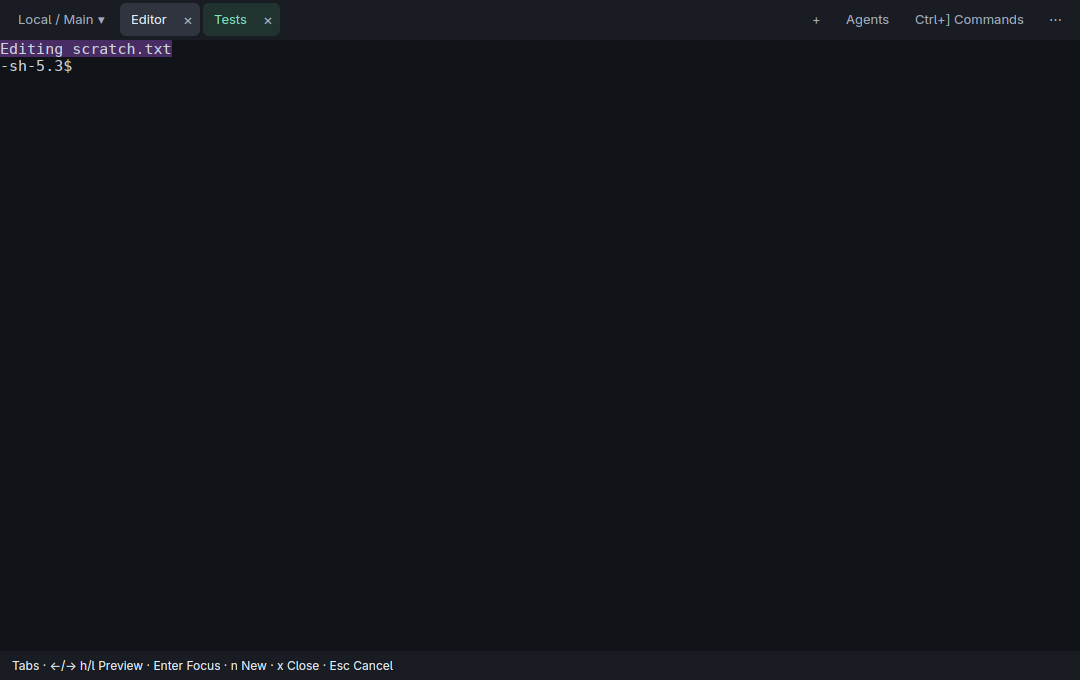
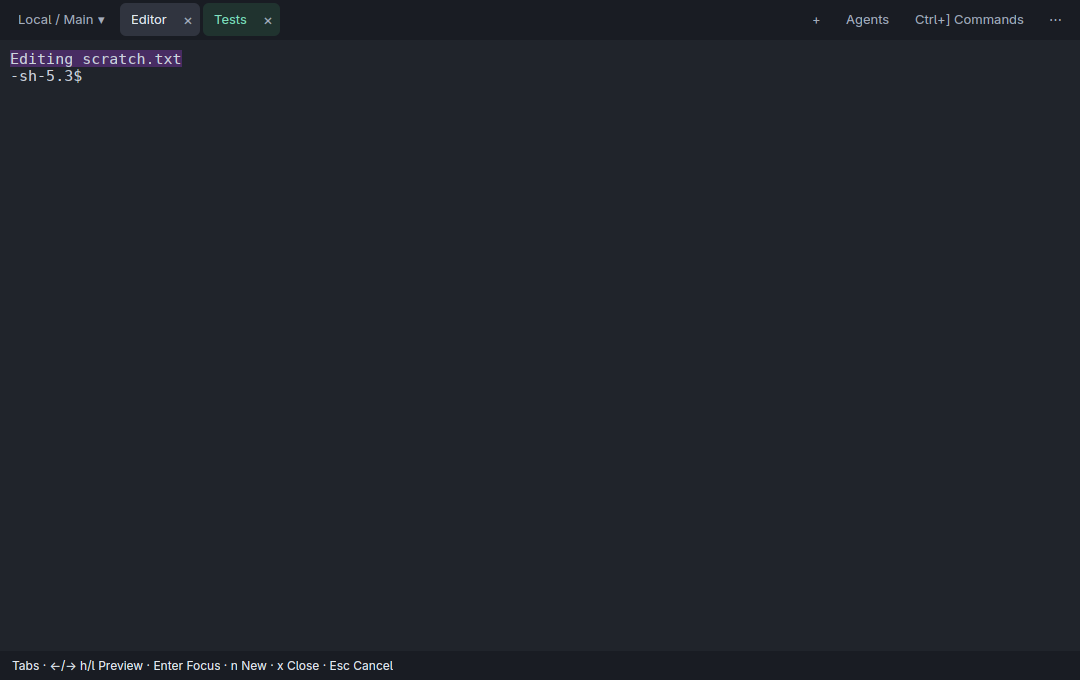
fix: align Desktop terminal preview surfaces (#410)

Changed region(s): [[0.0, 0.0618, 0.1833, 0.1235]]

diff --git a/crates/corvid-desktop/src/terminal_view.rs b/crates/corvid-desktop/src/terminal_view.rs
@@ -1,6 +1,7 @@
 use std::{
     cell::{Cell, RefCell},
     ops::Range,
+    rc::Rc,
     sync::{Arc, Weak},
     time::Instant,
 };
@@ -8,10 +9,10 @@ use std::{
 use corvid_async::oneshot;
 use corvid_protocol::ansi_screen::{Cell as ScreenCell, Screen};
 use gpui::{
-    App, Bounds, ClipboardItem, Context, FocusHandle, HitboxBehavior, InputHandler, IntoElement,
-    KeyDownEvent, Keystroke, Modifiers, MouseButton, MouseDownEvent, MouseMoveEvent, MouseUpEvent,
-    Pixels, Point, ScrollEvent, Task, UTF16Selection, WeakEntity, Window, canvas, div, prelude::*,
-    rgb,
+    App, Bounds, ClipboardItem, Context, Div, FocusHandle, HitboxBehavior, InputHandler,
+    IntoElement, KeyDownEvent, Keystroke, Modifiers, MouseButton, MouseDownEvent, MouseMoveEvent,
+    MouseUpEvent, Pixels, Point, ScrollEvent, Task, UTF16Selection, WeakEntity, Window, canvas,
+    div, prelude::*, rgb,
 };
 
 use crate::appearance::{Appearance, ui_px};
@@ -28,6 +29,7 @@ use wheel::WheelGesture;
 
 type CellPosition = (u16, u16);
 type CellRange = Range<CellPosition>;
+pub(crate) type SurfaceGeometry = (Bounds<Pixels>, Metrics);
 
 pub struct TerminalView {
     focus: FocusHandle,
@@ -35,7 +37,7 @@ pub struct TerminalView {
     pane: String,
     marked: String,
     pending_pane_click: Option<(u16, u16)>,
-    surface: Cell<Option<(Bounds<Pixels>, Metrics)>>,
+    surface: Cell<Option<SurfaceGeometry>>,
     displayed: RefCell<Option<DisplayedScreen>>,
     link_hover: RefCell<Option<LinkHover>>,
     selection: Option<Selection>,
@@ -817,7 +819,7 @@ impl Render for TerminalView {
         )
         .size_full();
 
-        div()
+        terminal_surface()
             .id("daemon-terminal")
             .track_focus(&self.focus)
             .on_key_down(cx.listener(Self::key_down))
@@ -834,13 +836,6 @@ impl Render for TerminalView {
                 MouseButton::Left,
                 cx.listener(|view, _, _, cx| view.end_selection(None, cx)),
             )
-            .size_full()
-            .flex()
-            .flex_col()
-            .min_h_0()
-            .p(ui_px(10.))
-            .overflow_hidden()
-            .bg(rgb(paint::BACKGROUND))
             .when_some(self.history.as_ref(), |this, history| {
                 this.child(
                     div()
@@ -856,28 +851,30 @@ impl Render for TerminalView {
     }
 }
 
-pub(crate) fn preview_cell(
-    bounds: Bounds<Pixels>,
-    point: Point<Pixels>,
-    window: &mut Window,
-    cx: &mut App,
-) -> CellPosition {
-    let family = cx.global::<TerminalFonts>().current().clone();
-    let font_size = cx.global::<Appearance>().terminal_size();
-    Metrics::measure(window, &family, font_size).position(bounds, point)
+fn terminal_surface() -> Div {
+    div()
+        .size_full()
+        .flex()
+        .flex_col()
+        .min_h_0()
+        .p(ui_px(10.))
+        .overflow_hidden()
+        .bg(rgb(paint::BACKGROUND))
 }
 
-pub fn preview(
+pub(crate) fn preview(
     session: Session,
     pane: String,
-    surface: std::rc::Rc<Cell<Option<Bounds<Pixels>>>>,
+    surface: Option<Rc<Cell<Option<SurfaceGeometry>>>>,
 ) -> impl IntoElement {
-    canvas(
+    let canvas = canvas(
         move |bounds, window, cx| {
-            surface.set(Some(bounds));
             let family = cx.global::<TerminalFonts>().current().clone();
             let font_size = cx.global::<Appearance>().terminal_size();
             let metrics = Metrics::measure(window, &family, font_size);
+            if let Some(surface) = &surface {
+                surface.set(Some((bounds, metrics)));
+            }
             let grid = metrics.grid(bounds);
             let frame = session
                 .preview(&pane, |screen| Frame::new(screen, grid))
@@ -888,7 +885,8 @@ pub fn preview(
             frame.paint(bounds, metrics, None, &family, window, cx);
         },
     )
-    .size_full()
+    .size_full();
+    terminal_surface().child(div().flex_1().min_h_0().child(canvas))
 }
 
 // X11 can retain the platform input handler while closing its window asynchronously.

diff --git a/tests/ui/linux/test_desktop.py b/tests/ui/linux/test_desktop.py
@@ -282,9 +282,14 @@ with (tempfile.TemporaryDirectory(prefix=".corvid-desktop-smoke-", dir=Path.home
                     ["scrot", "--overwrite", "--format", "ppm", "--window", window, str(screenshot)],
                     check=True, timeout=5,
                 )
-                pixels = screenshot.read_bytes().partition(b"\n255\n")[2]
-                if all(bytes(color) * 8 in pixels for color in colors):
-                    return
+                header, _, pixels = screenshot.read_bytes().partition(b"\n255\n")
+                offsets = [pixels.find(bytes(color) * 8) for color in colors]
+                if all(offset >= 0 for offset in offsets):
+                    width, height = map(int, header.splitlines()[-1].split())
+                    positions = tuple(divmod(offset // 3, width) for offset in offsets)
+                    # Sample the blank area well below the shell prompt.
+                    blank = 3 * (height * 3 // 4 * width + width // 2)
+                    return positions, tuple(pixels[blank:blank + 3])
                 time.sleep(0.05)
             raise AssertionError(f"Desktop did not render terminal backgrounds {colors}")
 
@@ -559,6 +564,9 @@ with (tempfile.TemporaryDirectory(prefix=".corvid-desktop-smoke-", dir=Path.home
         tests_color = (20, 82, 102)
         if args.build or tab_screenshot:
             prepare_preview("Editor", "Editing scratch.txt", editor_color)
+        if args.build:
+            editor_focused = wait_for_terminal_colors(editor_color)
+            assert editor_focused[1] == (32, 36, 43), editor_focused
         new_tab(window)
         second_terminal = wait_for_terminal(previous=first_terminal)
         second_tab_marker = root / "second-tab"
@@ -579,12 +587,17 @@ with (tempfile.TemporaryDirectory(prefix=".corvid-desktop-smoke-", dir=Path.home
             assert writers() == focused, "Cancelling tab preview changed the input route"
         key(window, "ctrl+bracketright", "t", "Left")
         if args.build:
-            wait_for_terminal_colors(editor_color)
+            editor_preview = wait_for_terminal_colors(editor_color)
+            assert editor_preview == editor_focused, (editor_preview, editor_focused)
             assert writers() == focused, "Arrow key preview changed the input route"
         if tab_screenshot:
+            wait_for_terminal_colors(editor_color)
             subprocess.run(["scrot", "--overwrite", "--focused", tab_screenshot], check=True, timeout=10)
         key(window, "Return")
         wait_for_terminal(expected=first_terminal)
+        if args.build:
+            editor_selected = wait_for_terminal_colors(editor_color)
+            assert editor_selected == editor_focused, (editor_selected, editor_focused)
         key(window, "ctrl+bracketright", "t", "Right", "Return")
         wait_for_terminal(expected=second_terminal)
         if args.build:

diff --git a/crates/corvid-desktop/src/workspace_view.rs b/crates/corvid-desktop/src/workspace_view.rs
@@ -1258,17 +1258,17 @@ impl WorkspaceView {
                                 .min_h_0()
                                 .overflow_hidden()
                                 .cursor_pointer()
-                                .child(preview(session, pane.clone(), Rc::clone(&surface)))
+                                .child(preview(session, pane.clone(), Some(Rc::clone(&surface))))
                                 .on_click(cx.listener(
                                     move |view, event: &gpui::ClickEvent, window, cx| {
                                         let cell = if event.modifiers().modified() {
                                             None
                                         } else {
-                                            event.mouse_position().zip(surface.get()).map(
-                                                |(point, bounds)| {
-                                                    crate::terminal_view::preview_cell(
-                                                        bounds, point, window, cx,
-                                                    )
+                                            event.mouse_position().zip(surface.get()).and_then(
+                                                |(point, (bounds, metrics))| {
+                                                    bounds
+                                                        .contains(&point)
+                                                        .then(|| metrics.position(bounds, point))
                                                 },
                                             )
                                         };
@@ -1357,7 +1357,7 @@ impl WorkspaceView {
             div().flex_1().min_h_0().overflow_hidden().child(preview(
                 session,
                 pane.to_owned(),
-                Rc::default(),
+                None,
             ))
         } else {
             self.preview_status("No running terminal")
